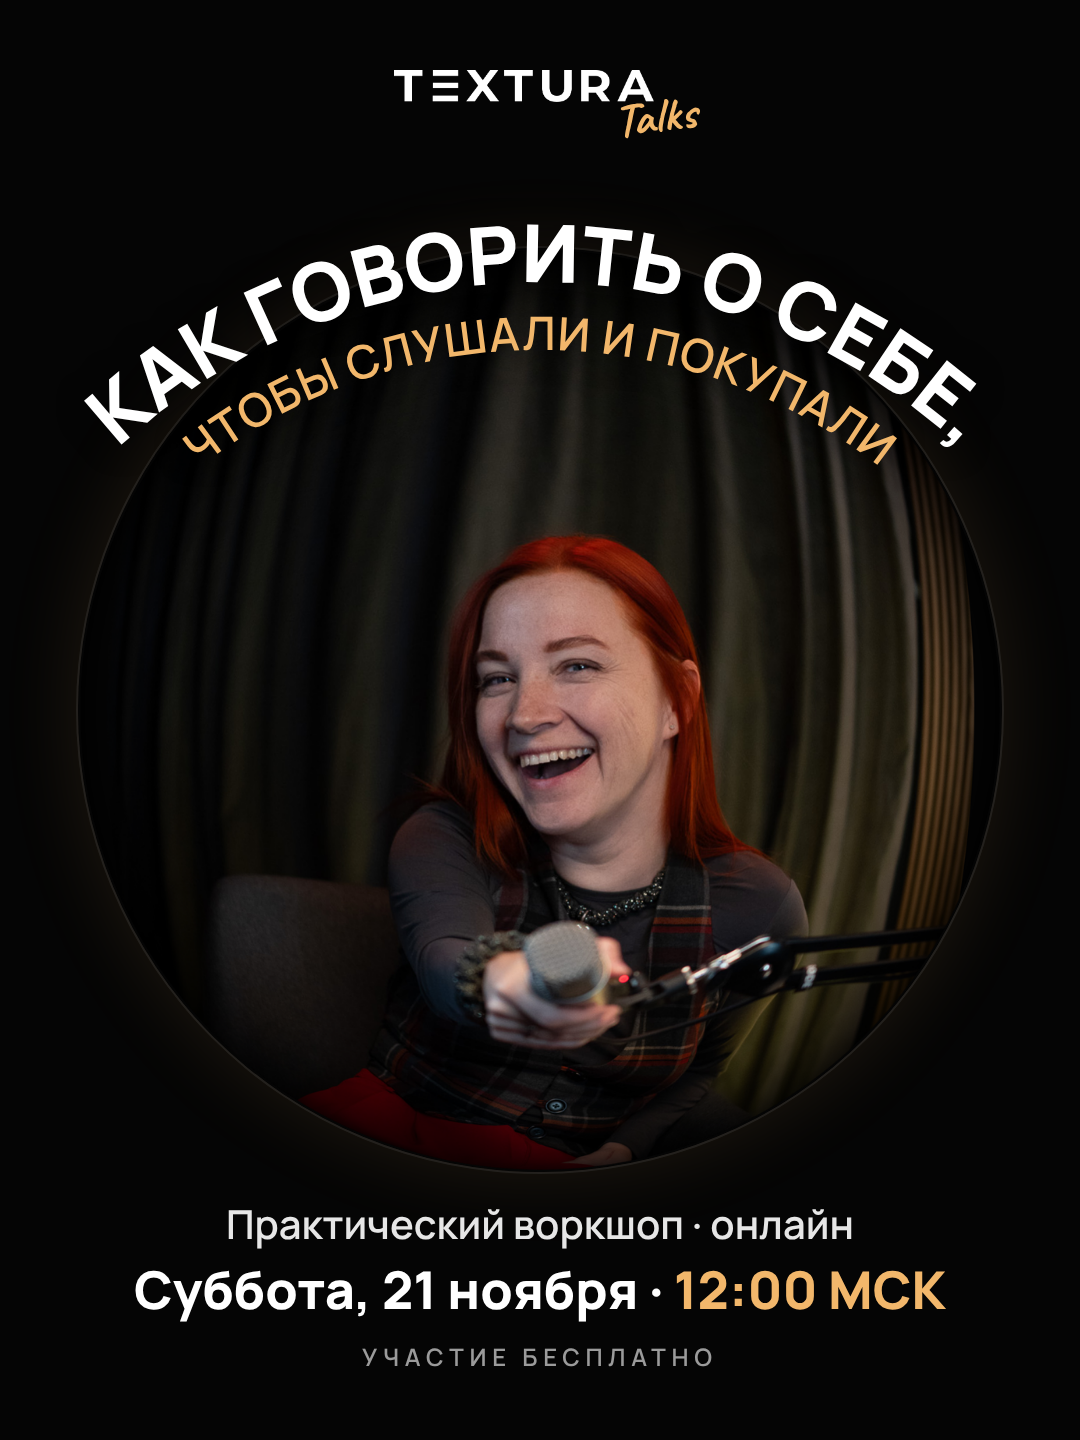
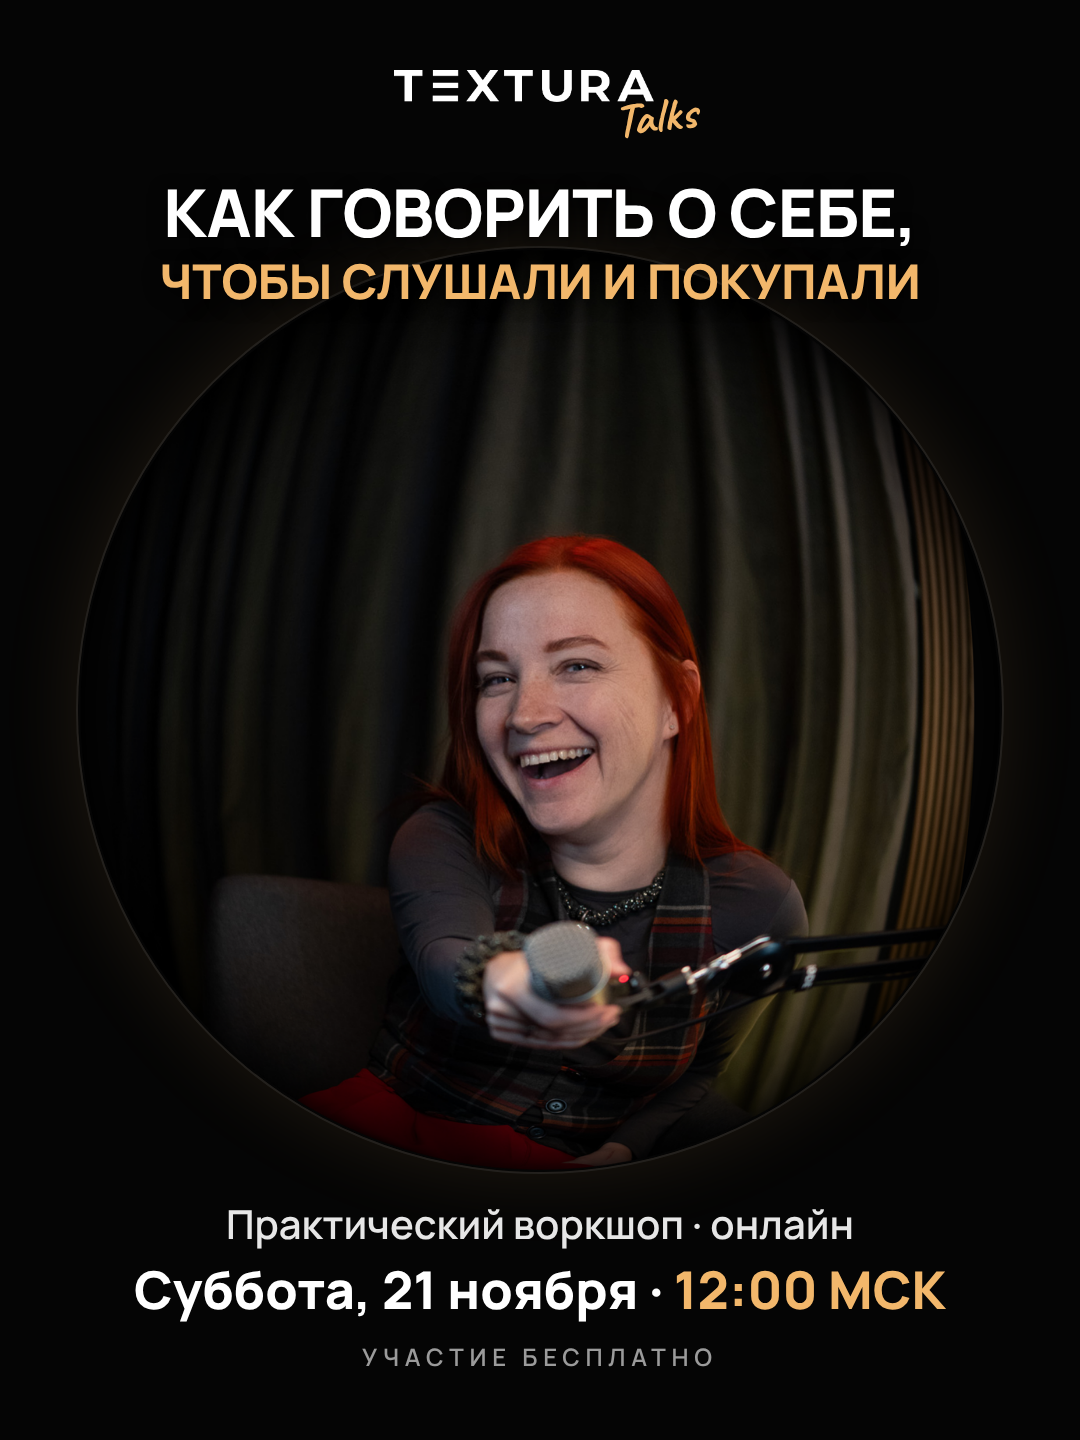
Workshop cover: straight bold headline
Claude-Session: https://claude.ai/code/session_01EUhV7va23MNh7ydDpeuyX7

Changed region(s): [[0.0917, 0.125, 0.9167, 0.3125]]

diff --git a/textura-carousel/workshop.html b/textura-carousel/workshop.html
@@ -127,14 +127,10 @@
   <div style="position:absolute; left:0; right:0; top:70px; z-index:3; text-align:center;">
     <div style="position:relative; display:inline-block; left:-16px;"><img src="photos/textura-logo.png" style="width:260px; display:block;" alt="TEXTURA"><span style="position:absolute; right:-42px; top:22px; font-family:Caveat, cursive; font-weight:700; font-size:48px; color:#F2B76B; transform:rotate(-7deg); line-height:1;">Talks</span></div>
   </div>
-  <svg viewBox="0 0 1080 1440" style="position:absolute; left:0; top:50px; width:1080px; height:1440px; z-index:2; overflow:visible;">
-    <defs>
-      <path id="arc1" d="M 60 460 A 620 620 0 0 1 1020 460"/>
-      <path id="arc2" d="M 112.6 502.6 A 552 552 0 0 1 967.4 502.6"/>
-    </defs>
-    <text style="font-family:Manrope; font-weight:800; font-size:80px; fill:#fff; filter:drop-shadow(0 4px 14px rgba(0,0,0,.5));"><textPath href="#arc1" startOffset="50%" text-anchor="middle">КАК ГОВОРИТЬ О&#160;СЕБЕ,</textPath></text>
-    <text style="font-family:Manrope; font-weight:600; font-size:46px; letter-spacing:1px; fill:#F2B76B; filter:drop-shadow(0 4px 14px rgba(0,0,0,.6));"><textPath href="#arc2" startOffset="50%" text-anchor="middle">ЧТОБЫ СЛУШАЛИ И&#160;ПОКУПАЛИ</textPath></text>
-  </svg>
+  <div style="position:absolute; left:0; right:0; top:178px; z-index:3; text-align:center; text-shadow:0 4px 18px rgba(0,0,0,.7);">
+    <div style="font-weight:800; font-size:66px; line-height:1.05; letter-spacing:-.01em;">КАК ГОВОРИТЬ О&nbsp;СЕБЕ,</div>
+    <div style="margin-top:8px; font-weight:800; font-size:48px; line-height:1.1; color:var(--accent);">ЧТОБЫ СЛУШАЛИ И&nbsp;ПОКУПАЛИ</div>
+  </div>
   <div style="position:absolute; left:0; right:0; top:1196px; z-index:3; text-align:center;">
     <div style="font-weight:600; font-size:40px; color:rgba(255,255,255,.9);">Практический воркшоп · онлайн</div>
     <div style="margin-top:10px; font-weight:800; font-size:52px; line-height:1.1;">Суббота, 21 ноября · <span style="color:var(--accent);">12:00 МСК</span></div>
